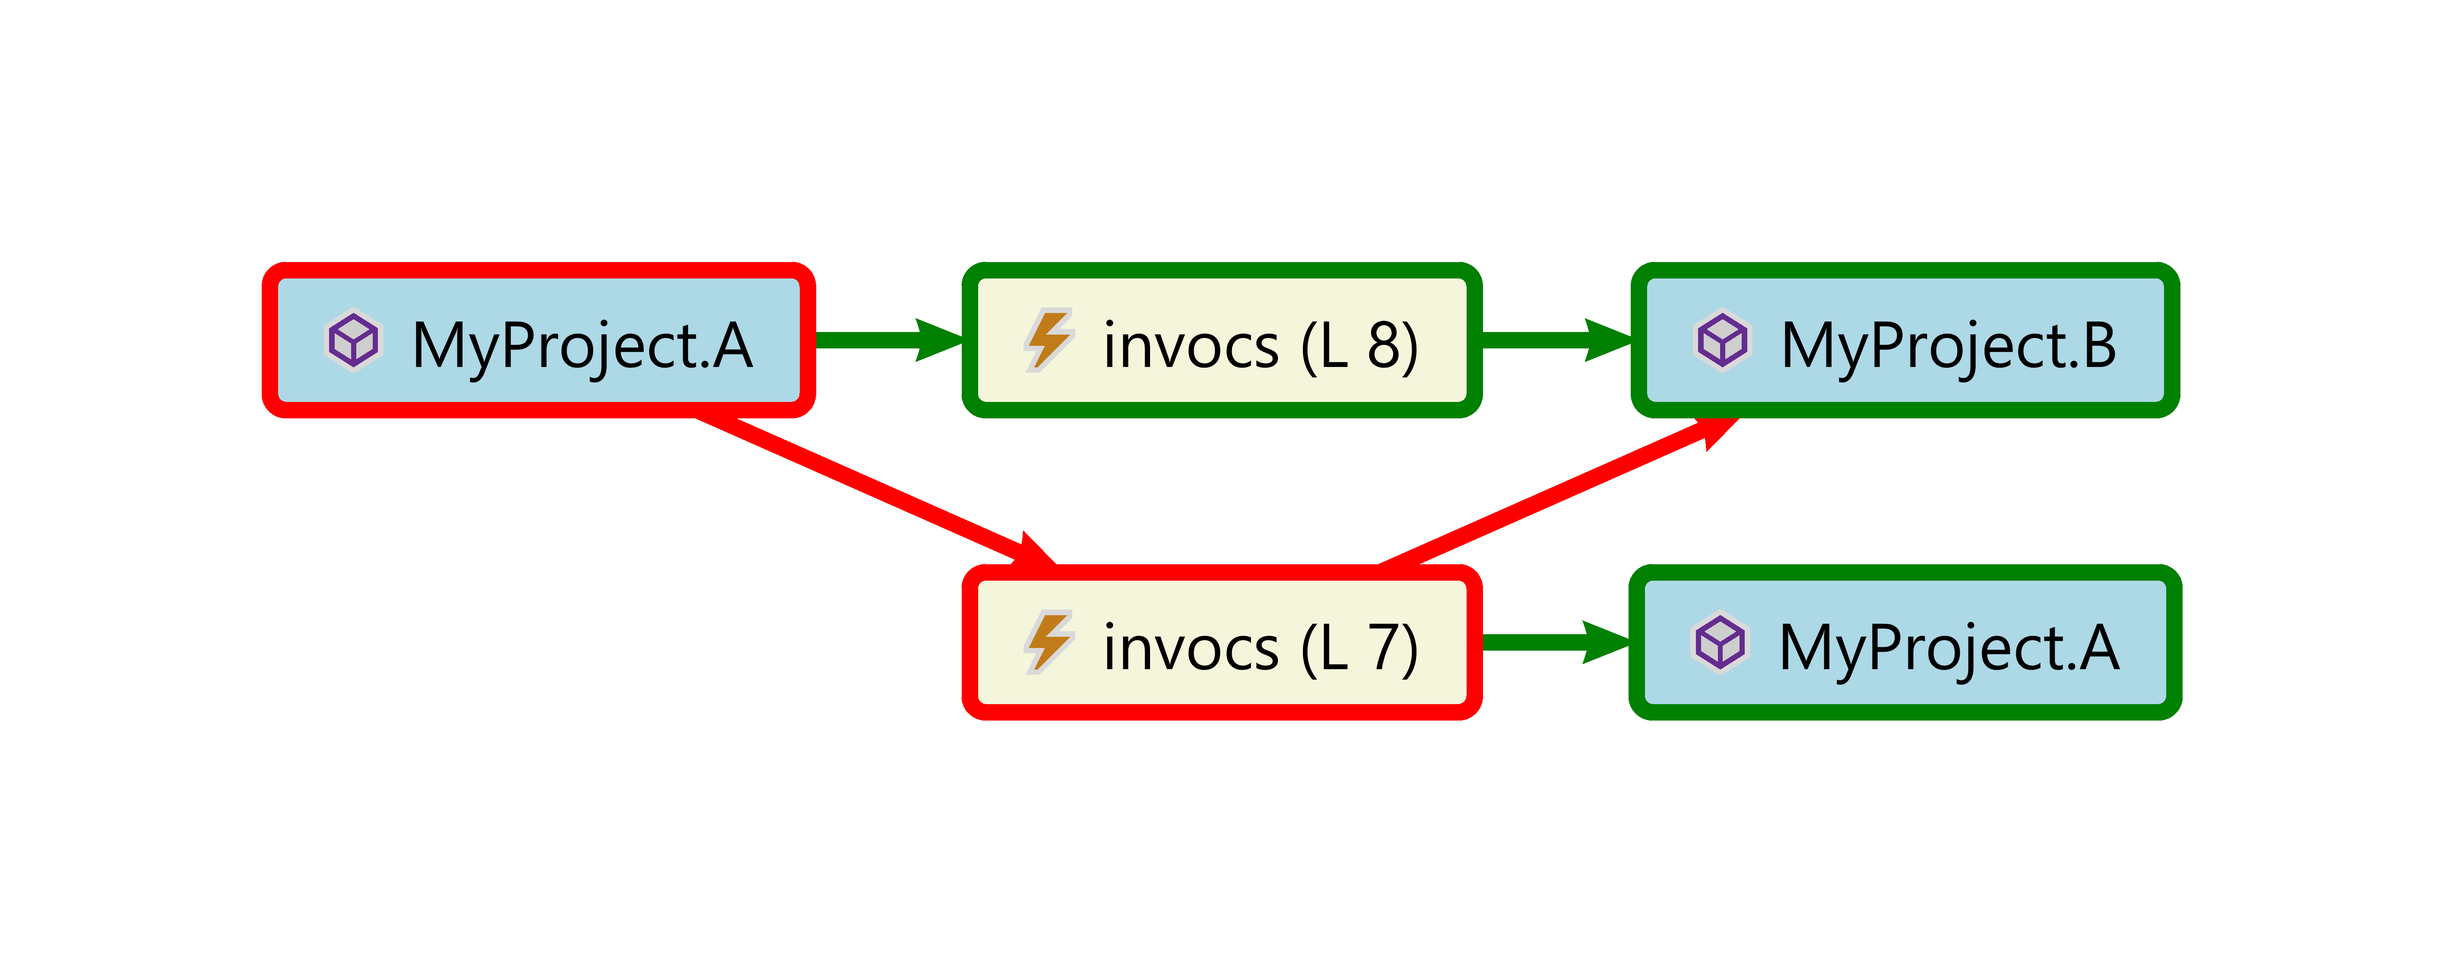
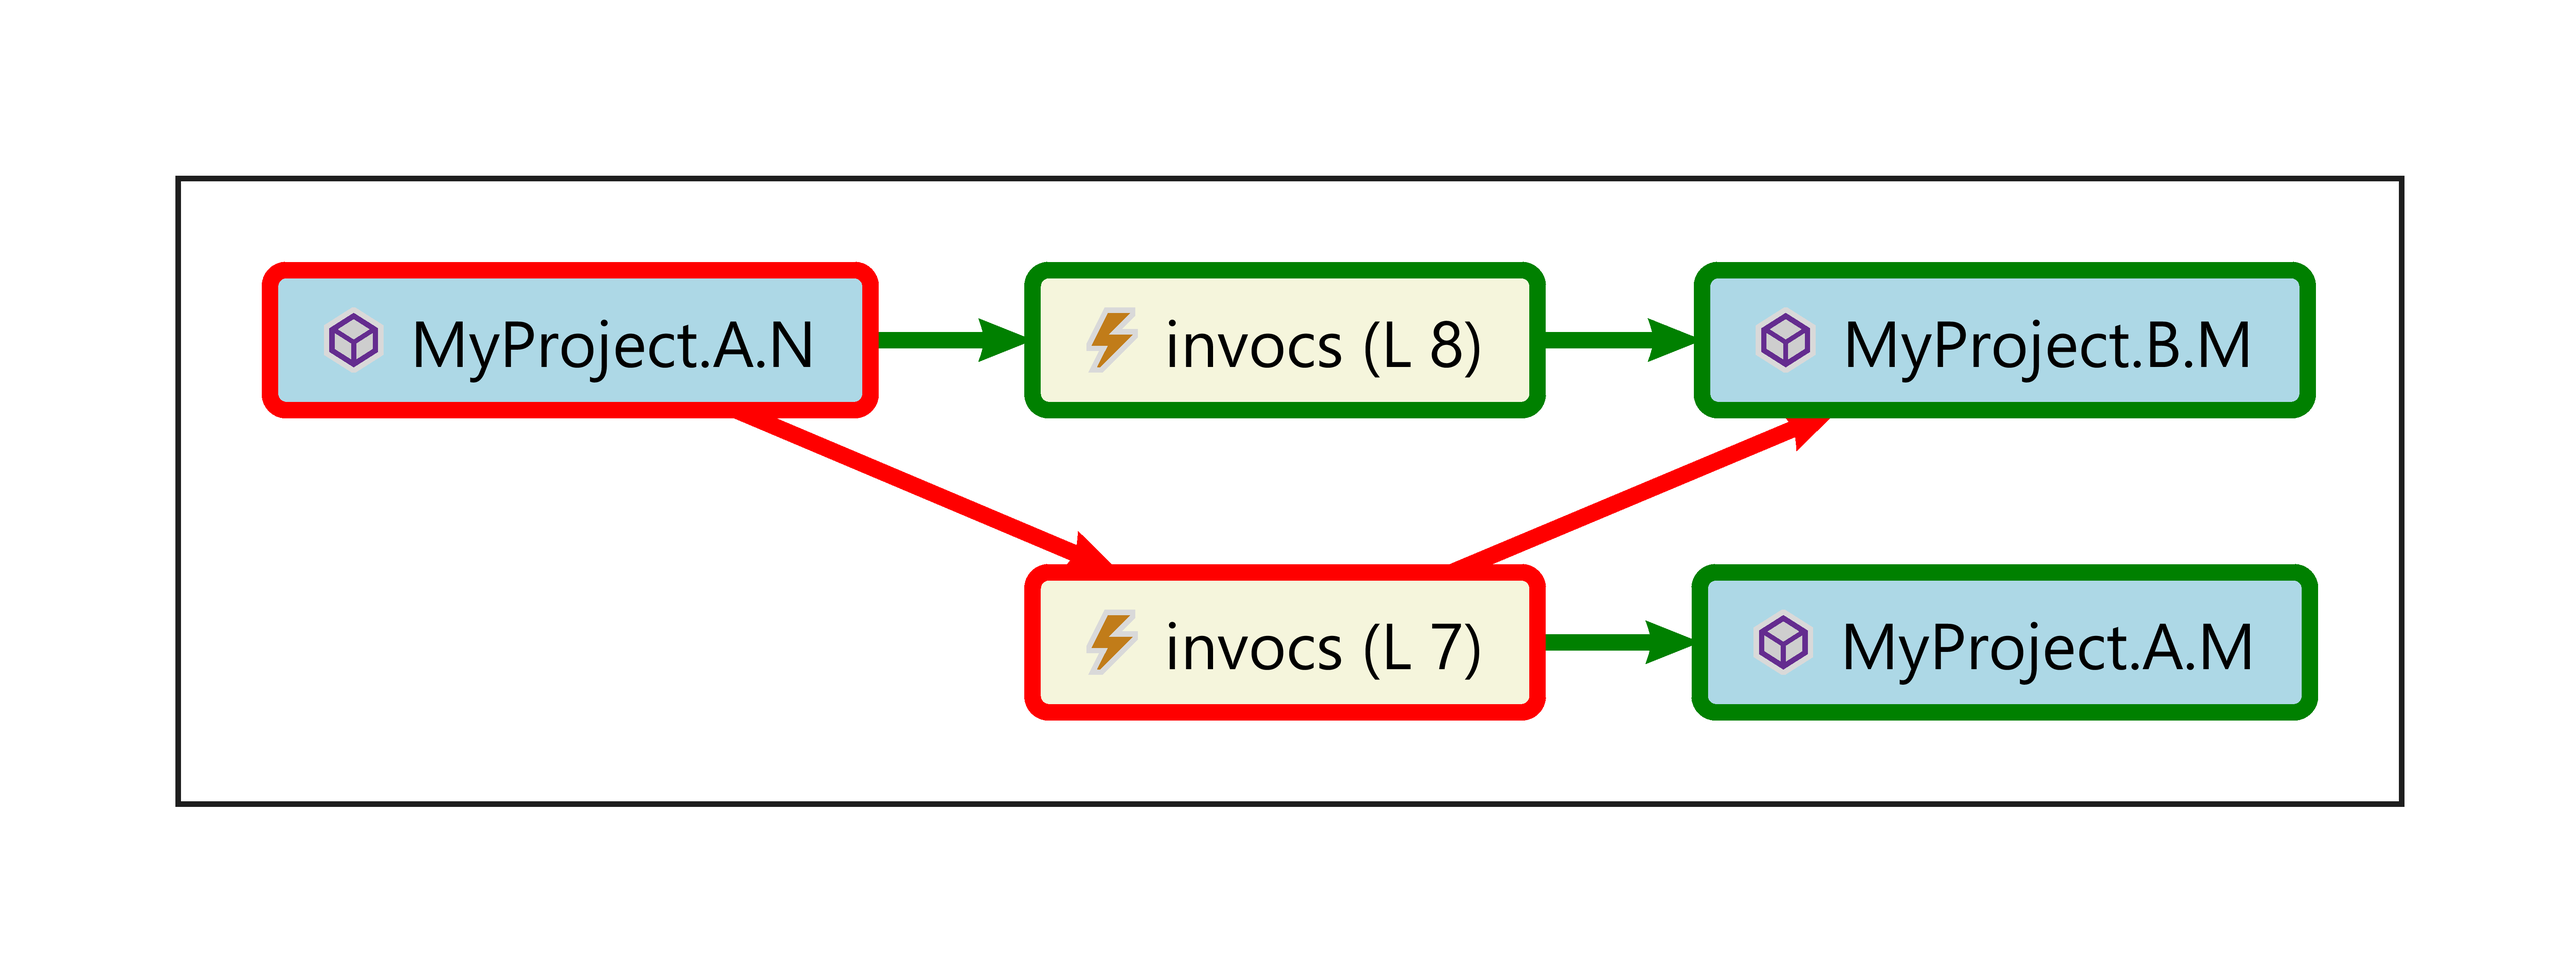
fixed method labels

diff --git a/src/polycover/StaticCodeAnalysis.cs b/src/polycover/StaticCodeAnalysis.cs
@@ -385,7 +385,8 @@ namespace polycover
         // returns the full name of a given method
         public string GetFullMethodName(MethodDeclarationSyntax methodDecl)
         {
-            return semMod.GetDeclaredSymbol(methodDecl).ContainingSymbol.ToString();
+            var methodNameWithParams = semMod.GetDeclaredSymbol(methodDecl).ToString();
+            return methodNameWithParams.Substring(0, methodNameWithParams.IndexOf('('));
         }
         
 
